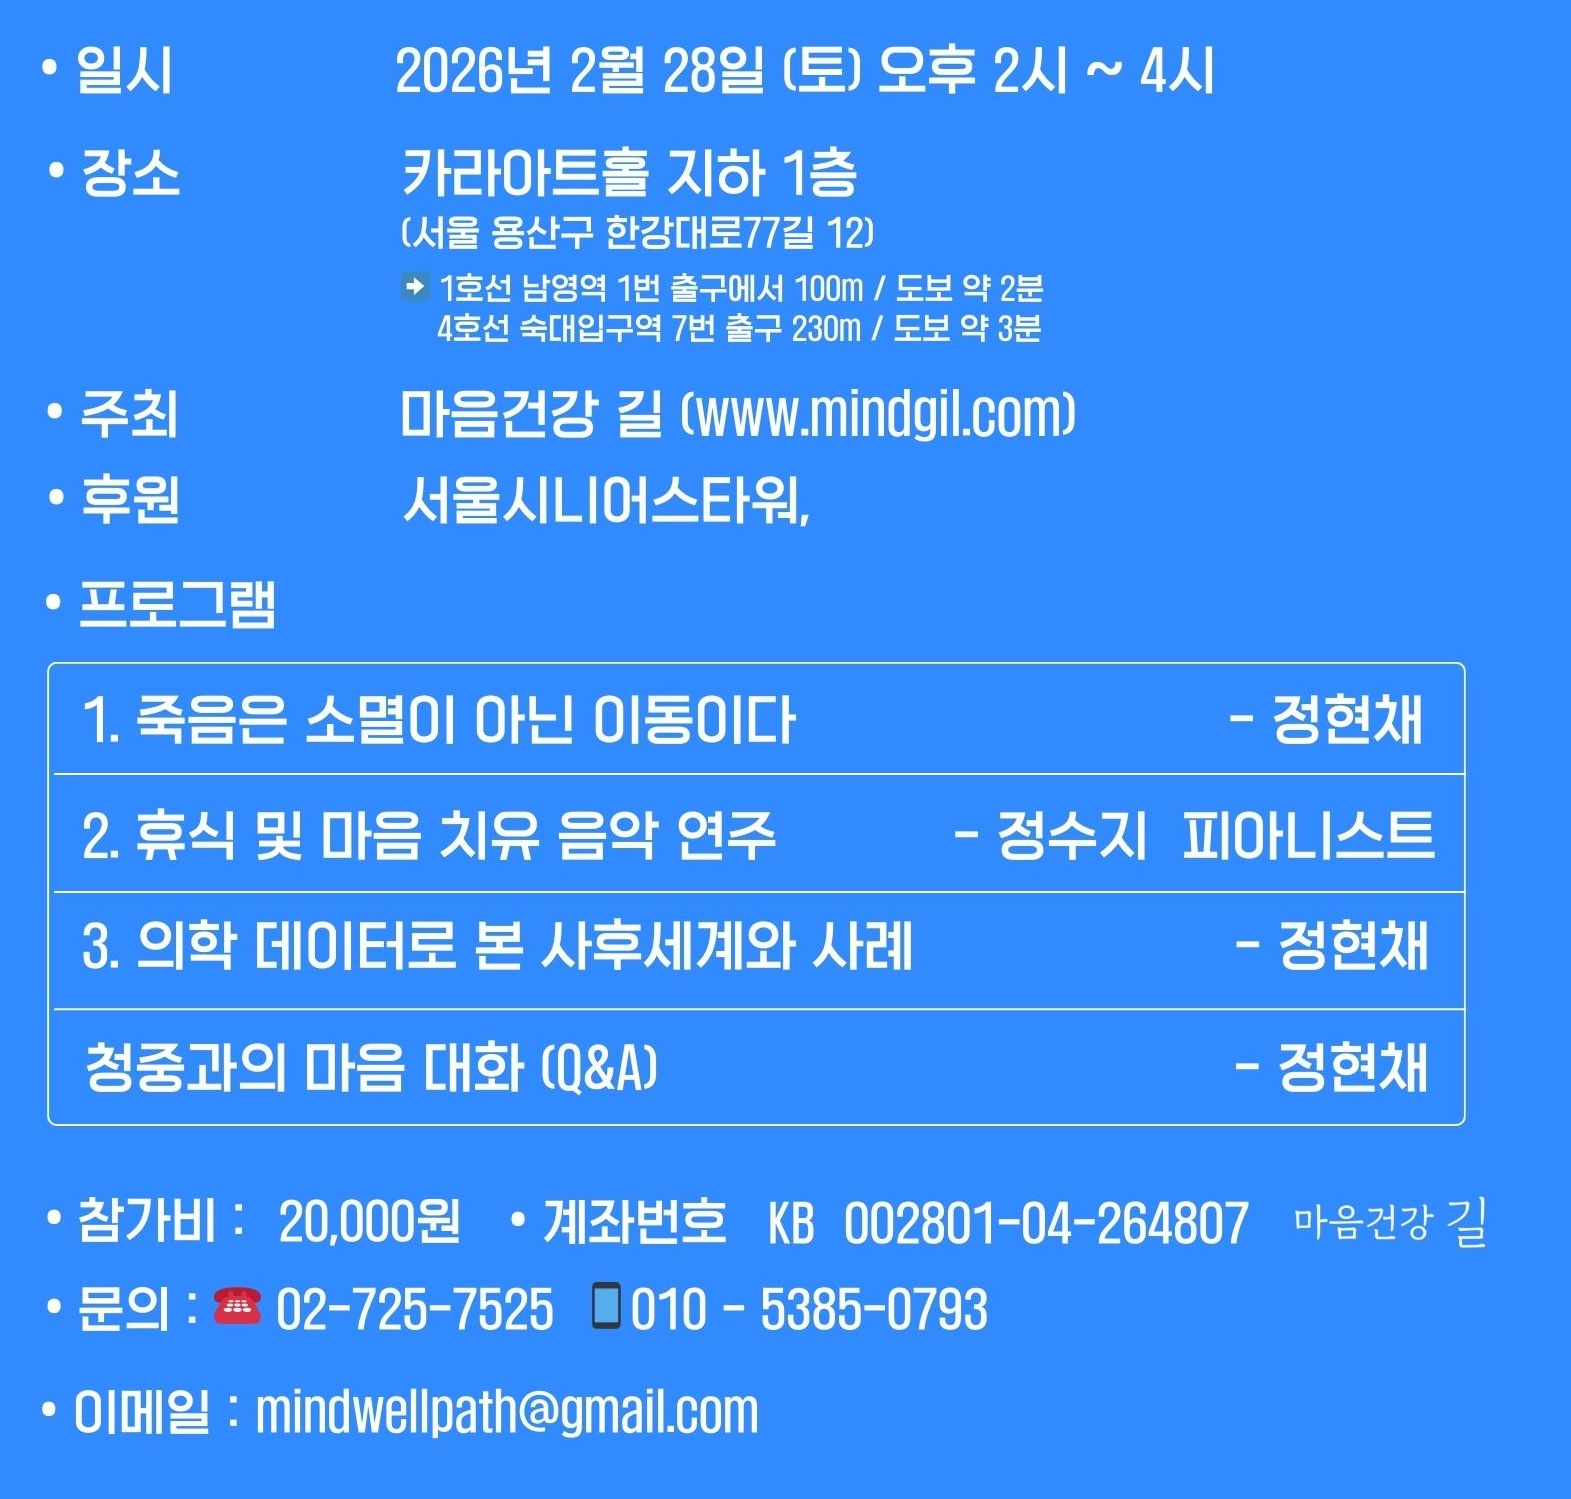
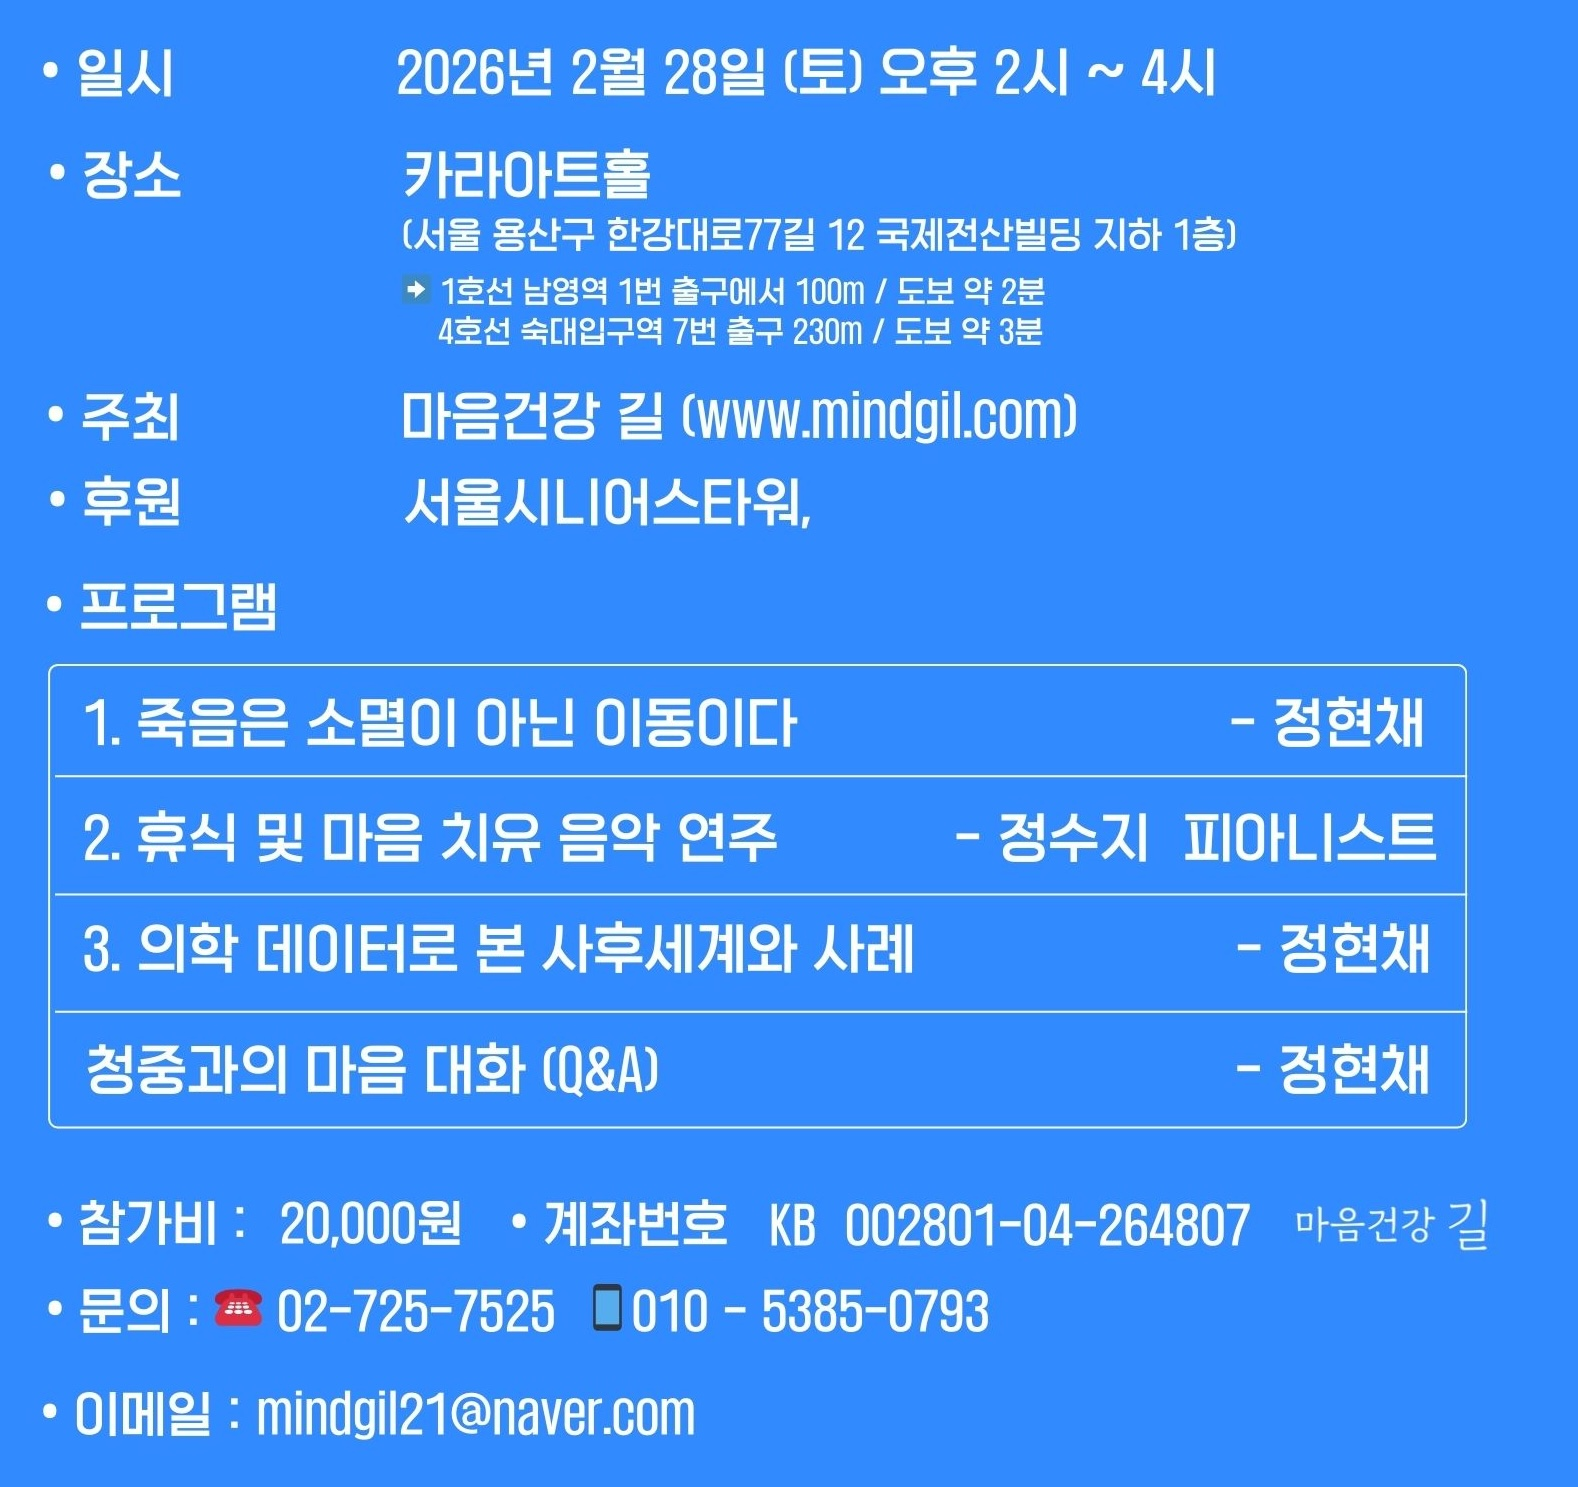
add 122

diff --git a/conference-9.html b/conference-9.html
@@ -487,7 +487,7 @@
     <div class="desc" style="font-size:1.3rem;">
       
       <!-- <u style="text-decoration: none;font-size:1.5rem;">죽음이 우리 삶에 던지는 메세지</u><br> -->
-      <b style="font-size:1.4rem; color:#ee0e66;">"육체의 죽음 뒤에도 의식은 지속된다."</b></b><br><br>
+      <!-- <b style="font-size:1.4rem; color:#ee0e66;">"육체의 죽음 뒤에도 의식은 지속된다."</b></b><br><br> -->
 
 
 
@@ -502,7 +502,8 @@
 
     <div class="info" style="font-weight:bold;">
      일시: 2026년 2월 28일 (토) 오후 2시~4시<br>
-      장소: 서울 용산구 한강대로77길 12, 카라아트홀 지하 1층
+      장소: 카라아트홀<br>
+      (서울 용산구 한강대로77길 12, 국제전산빌딩 지하 1층)
 <br><br>➡ 1호선 남영역 1번 출구에서 100m / 도보 약 2분<br>
 ➡ 4호선 숙대입구역 7번 출구 230m / 도보 약 3분
     </div>
@@ -548,9 +549,9 @@ About Us Section
 
   #profile1 .profile-grid{
     display:grid;
-    grid-template-columns:1fr 1fr;
+    grid-template-columns:1fr;
     gap:40px;
-    max-width:1200px;
+    max-width:600px;
     margin:0 auto;
   }
 
@@ -1162,7 +1163,7 @@ About Us Section
     </h2>
     <div class="info-content">
         <p class="font-bold text-xl mb-2"><b>🗓 2월 28일 (토) 오후 2시 ~ 4시</p>
-        <p class="font-bold text-xl mb-2"><b>📍서울 용산구 한강대로77길 12, 카라아트홀 지하 1층<br>&nbsp;&nbsp;(1호선 남영역 1번 출구에서 100m / 도보 약 2분) <br>&nbsp;&nbsp;(4호선 숙대입구역 7번 출구 230m / 도보 약 3분)</b></p>
+        <p class="font-bold text-xl mb-2"><b>📍서울 용산구 한강대로77길 12, 카라아트홀<br>&nbsp;&nbsp;(1호선 남영역 1번 출구에서 100m / 도보 약 2분) <br>&nbsp;&nbsp;(4호선 숙대입구역 7번 출구 230m / 도보 약 3분)</b></p>
         <!-- <p class="font-bold text-xl mb-2">💻 ZOOM 생중계 신청 가능</b></p><br> -->
          <!-- <a href="#apply" style="padding:20px 20px; color:#fff;background-color: #2563eb;border-radius:10px;font-size:1.2rem;"> 컨퍼런스 현장 참여하기</a></p><br> -->
            <!-- <a href="https://docs.google.com/forms/d/e/1FAIpQLScwa4jdbuIJNEiEsEyTWhIP7YeNsH9BzOEOGh-O0xG4QhhIbQ/viewform?usp=dialog" style="padding:20px 20px; color:#fff;background-color: #2563eb;border-radius:10px;font-size:1.2rem;">ZOOM 컨퍼런스 신청하기</a></p><br> -->
@@ -1498,7 +1499,7 @@ About Us Section
     <div class="session">
       <div class="card">
         <div class="time">14:45 ~ 15:00</div>
-        <h3>공연. 휴식 및 마음 치유 음악 연주</h3>
+        <h3>공연: 휴식 및 마음 치유 음악 연주</h3>
         <!-- <p>고립과 무너진 자존감을 다시 세우는 치유의 길을 전합니다.</p> -->
         <div class="profile">
           <!-- <img src="./img/prof-c.jpeg" alt="정현채 | 서울대학교 의과대학 명예교수님"> -->
@@ -1758,7 +1759,7 @@ About Us Section
              <!-- <a href="#apply" style="padding:20px 20px; color:#fff;background-color: #2563eb;border-radius:10px;font-size:1.2rem;"> 컨퍼런스 현장 참여하기</a></p><br> -->
               <!-- <a href="https://docs.google.com/forms/d/e/1FAIpQLScwa4jdbuIJNEiEsEyTWhIP7YeNsH9BzOEOGh-O0xG4QhhIbQ/viewform?usp=dialog" style="padding:20px 20px; color:#fff;background-color: #2563eb;border-radius:10px;font-size:1.2rem;">ZOOM 컨퍼런스 신청하기</a></p><br> -->
           <p class="font-bold text-xl mb-2">📞 02-725-7525 / 010-5385-0793</b></p>
-          <p class="font-bold text-xl mb-2">📩 mindwellpath@gmail.com</b></p>
+          <p class="font-bold text-xl mb-2">📩 mindgil21@naver.com</b></p>
       </div>
       </div>
       
@@ -1940,7 +1941,7 @@ About Us Section
 
 <div class="responsive-schedule">
   <img src="./img/9-pc.jpg" class="pc-schedule" alt="PC 스케줄 이미지">
-  <img src="./img/poster-9-m.jpg" class="mobile-schedule" alt="모바일 스케줄 이미지">
+  <img src="./img/9-mobile.jpg" class="mobile-schedule" alt="모바일 스케줄 이미지">
 
   <div id="choice_p" ></div>
 </div>
@@ -4320,7 +4321,7 @@ Footer
         <a href=""   target="_self">사업자번호: 
         695-50-00628</a><br>
         <a href=""   target="_self">일반 전화번호 : 02-725-7525</a><br>
-        <a href=""   target="_self">이메일 : mindwellpath@gmail.com</a><br>
+        <a href=""   target="_self">이메일 : mindgil21@naver.com</a><br>
         <a href=""  target="_self">주소: 서울시 중구 세종대로72 대영빌딩 7층 802호</a>
         <button id="kakao-link-btn">카카오톡으로 공유하기</button>
         </div>
